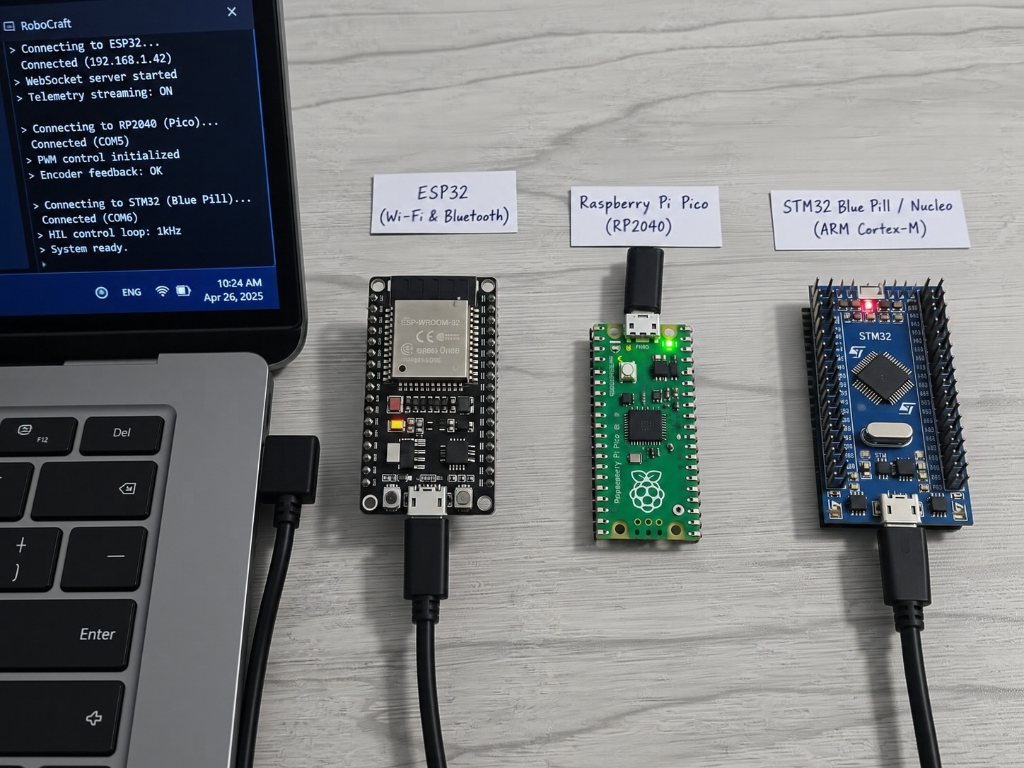
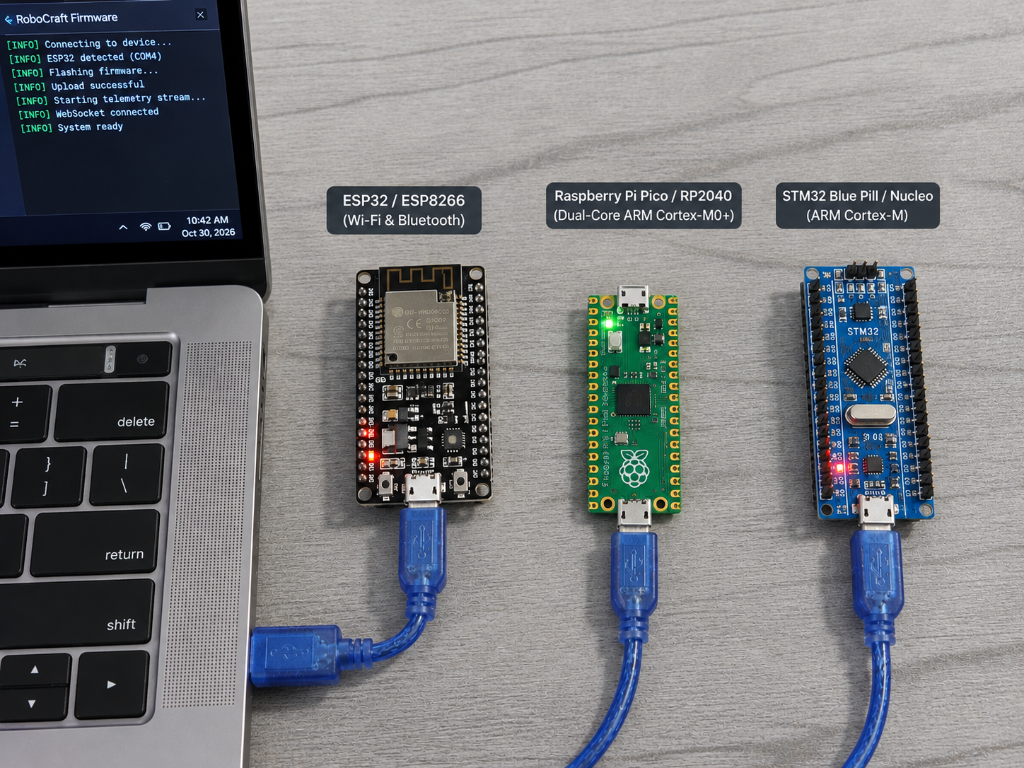
Polish README hardware gallery

diff --git a/README.md b/README.md
@@ -59,11 +59,18 @@
 | **Board heartbeat:** two amber pulses on the built-in `L` LED. Only your Uno and a USB data cable are needed. Its real compiled binary is bundled. | **Ten kit recipes:** LED, button, potentiometer, piezo, servo, distance sensor, character LCD, light sensor, and stepper with wiring guides. Custom builds use the hosted Arduino compiler. |
 | **Guided onboarding:** choose a sketch → connect USB → build and upload → observe the board. | **Meta coding copilot:** review a proposed sketch and wiring before applying it. Export Arduino C++, Verilog, or VHDL. HDL drafts require an FPGA toolchain. |
 
-<p align="center">
-  <img src="frontend/public/hardware/uno-desk.jpeg" alt="Physical Arduino Uno R3 connected to a laptop by USB on a workbench" width="340" />
-  <img src="docs/assets/controller-targets.png" alt="ESP32, Raspberry Pi Pico RP2040, and STM32 Blue Pill or Nucleo boards beside a telemetry laptop" width="340" />
-  <br /><sub>Physical bench references: the Uno R3 is the supported browser-upload target today; the ESP32, RP2040, and STM32 boards illustrate broader controller targets and integration directions.</sub>
-</p>
+<table>
+  <tr>
+    <td width="50%" align="center">
+      <img src="frontend/public/hardware/uno-desk.jpeg" alt="Physical Arduino Uno R3 connected to a laptop by USB on a workbench" width="100%" />
+      <br /><sub><b>Arduino Uno R3</b><br />Supported browser-upload target today.</sub>
+    </td>
+    <td width="50%" align="center">
+      <img src="docs/assets/controller-targets.png" alt="ESP32, Raspberry Pi Pico RP2040, and STM32 Blue Pill or Nucleo boards beside a telemetry laptop" width="100%" />
+      <br /><sub><b>Broader controller targets</b><br />ESP32, RP2040, and STM32 integration directions.</sub>
+    </td>
+  </tr>
+</table>
 
 **Try the board you have now:** open **Hardware** → **Board heartbeat** → **Connect Uno** → select its USB port → **Build sketch** → review the code/wiring checkbox → **Upload to Uno**. Watch for two short amber `L` flashes. The serial monitor at 9600 baud reads messages from the running sketch.
 
